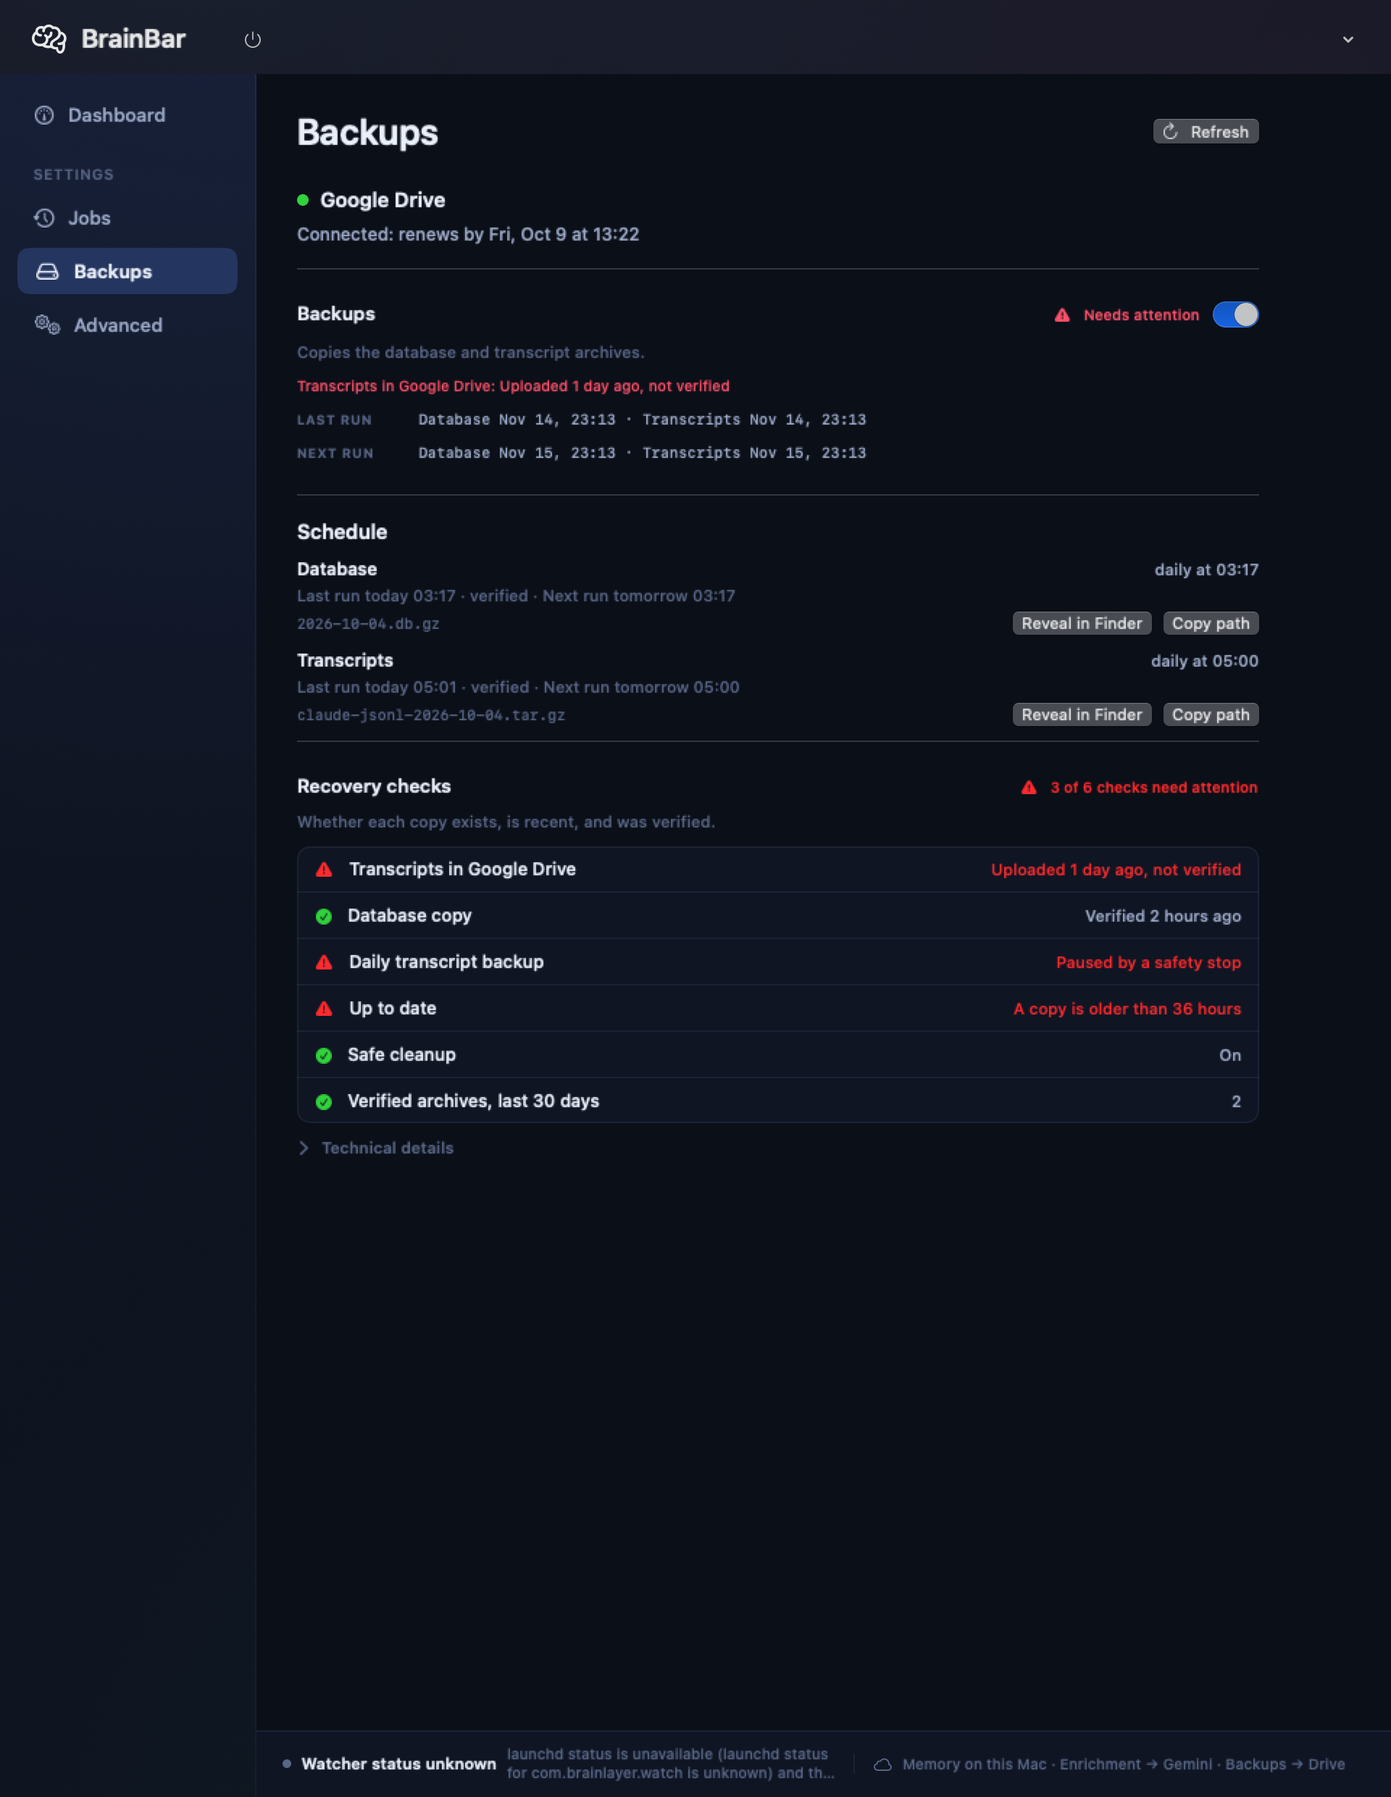
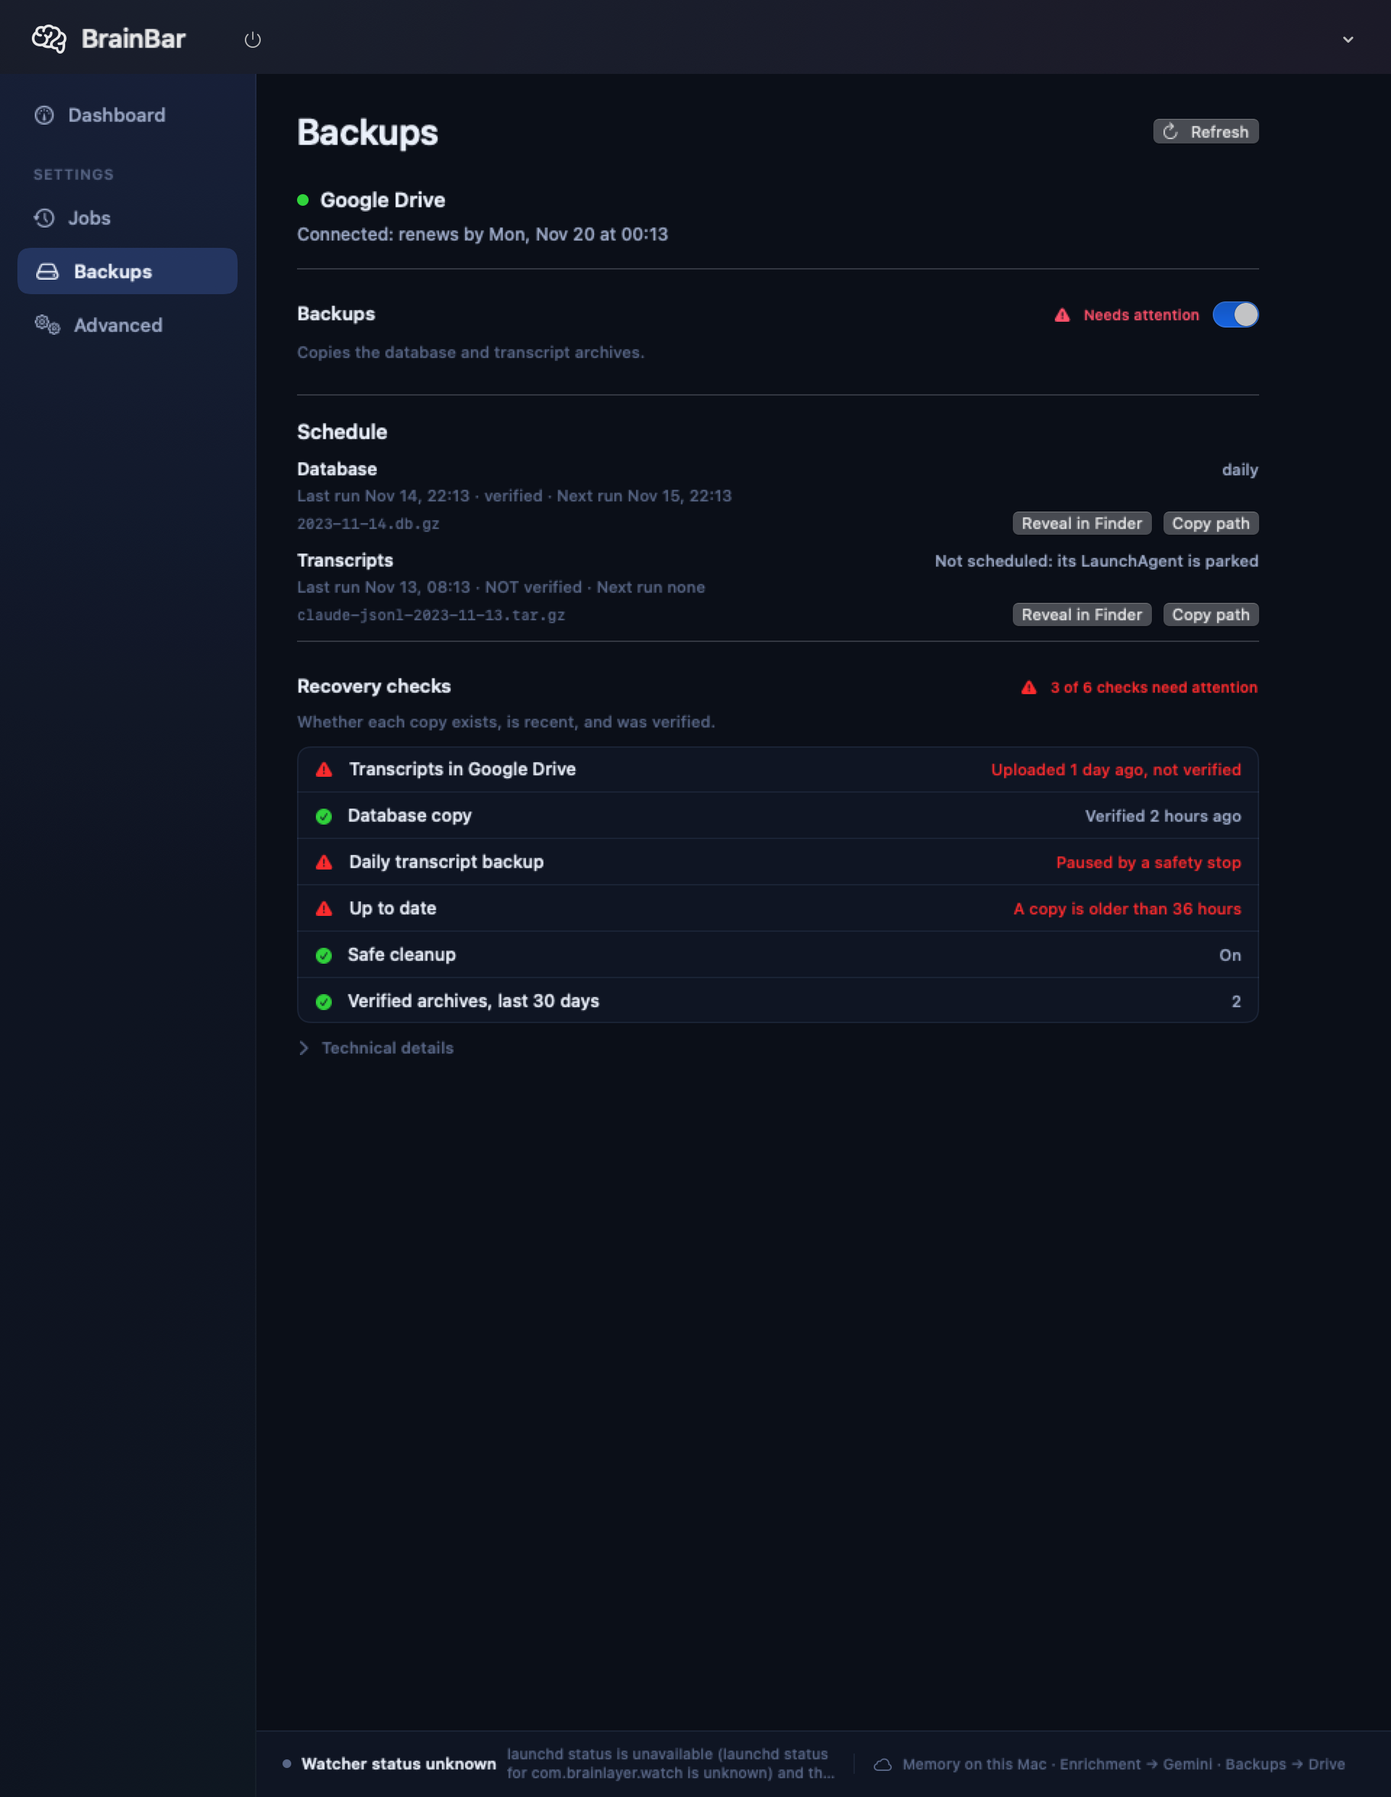
fix(brainbar): Backups shows each failure once; Schedule is the one run source (lead UX r1 on #1064)
- The Backups header keeps only its badge: a reason another card on the page
  already states (a recovery check, the Drive card, the job-alert card) is not
  repeated; one shown nowhere else still is.
- The Backups page drops the monospace LAST RUN / NEXT RUN rows; the Schedule
  section is the single source (the Jobs page keeps them).
- Render fixtures use one clock (no 2023 beside "today"); a parked job reads
  "Not scheduled".
- Harness: a Dashboard OCR label must be missing on three Vision passes before
  the render fails (review N1).

diff --git a/brain-bar/Sources/BrainBar/BrainBarRenderHarness.swift b/brain-bar/Sources/BrainBar/BrainBarRenderHarness.swift
@@ -630,14 +630,21 @@ enum BrainBarRenderHarness {
         }
         if fixedHeight != nil {
             guard emittedBitmap.pixelsWide * Int(height) == emittedBitmap.pixelsHigh * Int(breakpoint.width), let image = emittedBitmap.cgImage else { throw Failure("\(name): invalid fixed-height bitmap") }
-            let request = VNRecognizeTextRequest()
-            request.recognitionLevel = .accurate
-            try VNImageRequestHandler(cgImage: image).perform([request])
-            for label in ["Details", detailsExpanded && !collapseInPlace ? "Last seen" : "Details"] {
-                guard request.results?.contains(where: {
-                    $0.topCandidates(1).first?.string.localizedCaseInsensitiveContains(label) == true && $0.boundingBox.minY > 0.025
-                }) == true else { throw Failure("\(name): \(label) or bottom padding clipped") }
+            // Vision can miss a label on one pass and find it on the next for the same pixels
+            // (#1064 review N1), so a label must be missing on three passes before it counts.
+            let labels = ["Details", detailsExpanded && !collapseInPlace ? "Last seen" : "Details"]
+            var missing = labels
+            for _ in 0 ..< 3 where !missing.isEmpty {
+                let request = VNRecognizeTextRequest()
+                request.recognitionLevel = .accurate
+                try VNImageRequestHandler(cgImage: image).perform([request])
+                missing = missing.filter { label in
+                    request.results?.contains(where: {
+                        $0.topCandidates(1).first?.string.localizedCaseInsensitiveContains(label) == true && $0.boundingBox.minY > 0.025
+                    }) != true
+                }
             }
+            if let label = missing.first { throw Failure("\(name): \(label) or bottom padding clipped") }
         }
 
         let cardHeights = panelState.renderedSummaryTileHeights
@@ -842,7 +849,7 @@ enum BrainBarRenderHarness {
                     let page = BrainBarUnifiedWindowPreview.make(
                         collector: BrainBarDashboardFixture.makeCollector(), settingsViewModel: viewModel,
                         panelState: panelState, section: .backups,
-                        driveAuth: { $0.setForPreview(status: .init(state: .valid, reason: nil, expiresAt: Date().addingTimeInterval(5 * 86_400))) }
+                        driveAuth: { $0.setForPreview(status: .init(state: .valid, reason: nil, expiresAt: jobAt.addingTimeInterval(5 * 86_400))) }
                     )
                     try capture(page, width: breakpoint.width, height: 900, measure: { 900 },
                                 name: "maint-\(state.name)-backups-\(breakpoint.name)-\(appearance.name)",
@@ -946,17 +953,27 @@ enum BrainBarRenderHarness {
                 launchd: .init(label: "com.brainlayer.jsonl-backup", bootstrapped: false, disabledDirPresent: true)
             )
         )
-        let localCopies: [BrainBarBackupScheduleRow] = [
-            .init(title: "Database", cadence: "daily at 03:17", lastRun: "Last run today 03:17 · verified",
-                  nextRun: "Next run tomorrow 03:17",
-                  localCopy: URL(fileURLWithPath: "/Users/fixture/.local/share/brainlayer/backups/2026-10-04.db.gz")),
-            .init(title: "Transcripts", cadence: "daily at 05:00", lastRun: "Last run today 05:01 · verified",
-                  nextRun: "Next run tomorrow 05:00",
-                  localCopy: URL(fileURLWithPath: "/Users/fixture/.local/share/brainlayer/jsonl-backups/claude-jsonl-2026-10-04.tar.gz")),
-        ]
+        // Lead UX r1: every time on these renders comes from the one fixture clock (`now`), so the
+        // Schedule rows, the checks and Technical details tell the same story.
+        let show = DashboardMetricFormatter.jobDateTimeString
+        let day = { (date: Date) in date.formatted(.iso8601.year().month().day()) }
+        func schedule(upload: ObservabilityDocument.LastVerifiedUpload?, parked: Bool) -> [BrainBarBackupScheduleRow] {
+            let snapshotAt = b.dbSnapshot?.lastAt ?? now.addingTimeInterval(-7_200)
+            let uploadAt = upload?.at ?? now.addingTimeInterval(-3_600)
+            return [
+                .init(title: "Database", cadence: "daily", lastRun: "Last run \(show(snapshotAt)) · verified",
+                      nextRun: "Next run \(show(snapshotAt.addingTimeInterval(86_400)))",
+                      localCopy: URL(fileURLWithPath: "/Users/fixture/.local/share/brainlayer/backups/\(day(snapshotAt)).db.gz")),
+                .init(title: "Transcripts", cadence: parked ? "Not scheduled: its LaunchAgent is parked" : "daily",
+                      lastRun: "Last run \(show(uploadAt))\(upload?.verified == false ? " · NOT verified" : " · verified")",
+                      nextRun: parked ? "Next run none" : "Next run \(show(uploadAt.addingTimeInterval(86_400)))",
+                      localCopy: URL(fileURLWithPath: "/Users/fixture/.local/share/brainlayer/jsonl-backups/claude-jsonl-\(day(uploadAt)).tar.gz")),
+            ]
+        }
         let ok = BrainLayerLaunchdJobObservation(loadState: .loaded, runs: 3, lastExitCode: 0, lastRunAt: now.addingTimeInterval(-3_600),
                                                  nextRunAt: now.addingTimeInterval(82_800), isContinuous: false)
         func viewModel(_ result: ObservabilityReadResult, details: Bool) -> BrainBarSettingsViewModel {
+            let backups: ObservabilityDocument.Backups? = if case let .readable(document) = result { document.backups } else { nil }
             let model = BrainBarSettingsViewModel(
                 store: store,
                 launchdStatusProvider: StaticBrainLayerLaunchdStatusProvider(states: [:]),
@@ -965,13 +982,15 @@ enum BrainBarRenderHarness {
                 refreshStatusOnLoad: false,
                 now: { now },
                 initialObservabilityResult: result,
-                initialBackupSchedules: localCopies
+                initialBackupSchedules: schedule(
+                    upload: backups?.lastVerifiedUpload, parked: backups?.launchd?.bootstrapped == false
+                )
             )
             if details { model.backupDetailsExpanded = true }
             return model
         }
         let connected: (BrainBarDriveAuthModel) -> Void = { model in
-            model.setForPreview(status: .init(state: .valid, reason: nil, expiresAt: Date().addingTimeInterval(5 * 86_400)))
+            model.setForPreview(status: .init(state: .valid, reason: nil, expiresAt: now.addingTimeInterval(5 * 86_400)))
         }
         func capture(_ view: AnyView, width: CGFloat, height: CGFloat, name: String, appearance: NSAppearance.Name) throws {
             let host = NSHostingView(rootView: view)

diff --git a/brain-bar/Tests/BrainBarTests/BrainBarBackupChecksTests.swift b/brain-bar/Tests/BrainBarTests/BrainBarBackupChecksTests.swift
@@ -171,7 +171,8 @@ final class BrainBarSettingsPlainPathsTests: XCTestCase {
     }
 
     private func makeViewModel(
-        observability: ObservabilityReadResult, workspace: Recorder = Recorder()
+        observability: ObservabilityReadResult, workspace: Recorder = Recorder(),
+        jsonl: BrainLayerLaunchdJobObservation? = nil
     ) throws -> (BrainBarSettingsViewModel, URL) {
         let root = URL(fileURLWithPath: NSTemporaryDirectory(), isDirectory: true)
             .appendingPathComponent("brainbar-plain-paths-\(UUID().uuidString)", isDirectory: true)
@@ -184,7 +185,7 @@ final class BrainBarSettingsPlainPathsTests: XCTestCase {
             launchdStatusProvider: StaticBrainLayerLaunchdStatusProvider(states: [:]),
             initialLaunchdObservations: [
                 .backupDaily: .init(loadState: .loaded, runs: 1, lastExitCode: 0, lastRunAt: Date(), nextRunAt: Date(), isContinuous: false),
-                .jsonlBackup: .init(loadState: .loaded, runs: 1, lastExitCode: 0, lastRunAt: Date(), nextRunAt: Date(), isContinuous: false),
+                .jsonlBackup: jsonl ?? .init(loadState: .loaded, runs: 1, lastExitCode: 0, lastRunAt: Date(), nextRunAt: Date(), isContinuous: false),
             ],
             refreshStatusOnLoad: false,
             initialObservabilityResult: observability,
@@ -216,6 +217,34 @@ final class BrainBarSettingsPlainPathsTests: XCTestCase {
         XCTAssertEqual(viewModel.backupChecks?.attentionSentence, health.reason)
     }
 
+    /// Lead UX r1 on #1064: each failure is shown once. The Backups header keeps its badge but drops
+    /// any reason the page already shows (a recovery check, the Drive card, the job-alert card); a
+    /// reason shown nowhere else (the launchd job's exit) still appears under the badge.
+    func test_the_backups_header_never_repeats_a_reason_the_page_already_shows() throws {
+        guard case let .readable(healthy) = BrainBarDashboardFixture.healthyObservabilityResult else {
+            XCTFail("fixture must be readable")
+            return
+        }
+        let unverified = healthy.replacingBackupsLastVerifiedUpload(verified: false)
+        let (model, _) = try makeViewModel(observability: .readable(unverified))
+        XCTAssertEqual(model.backupsHealth(drive: nil).badge, .attention)
+        XCTAssertNil(model.backupsBadgeReason(drive: nil), "the Recovery checks card already says it")
+
+        let drive = DriveAuthPresentation.derive(
+            status: .init(state: .missing, reason: nil, expiresAt: nil),
+            isReconnecting: false, lastOutcome: nil, now: Date(), formatDate: { _ in "" }
+        )
+        let (healthyModel, _) = try makeViewModel(observability: .readable(healthy))
+        XCTAssertEqual(healthyModel.backupsHealth(drive: drive).reason, drive.line)
+        XCTAssertNil(healthyModel.backupsBadgeReason(drive: drive), "the Google Drive card already says it")
+
+        let failedJob = BrainLayerLaunchdJobObservation(loadState: .loaded, runs: 2, lastExitCode: 1, lastRunAt: Date(),
+                                                        nextRunAt: Date(), isContinuous: false)
+        let (jobModel, _) = try makeViewModel(observability: .readable(healthy), jsonl: failedJob)
+        let reason = try XCTUnwrap(jobModel.backupsHealth(drive: nil).reason)
+        XCTAssertEqual(jobModel.backupsBadgeReason(drive: nil), reason, "shown nowhere else, so it stays")
+    }
+
     func test_the_config_file_row_copies_and_reveals_the_file_the_model_reads() throws {
         let workspace = Recorder()
         let (viewModel, configURL) = try makeViewModel(observability: .unreadable("x"), workspace: workspace)
@@ -226,5 +255,22 @@ final class BrainBarSettingsPlainPathsTests: XCTestCase {
         XCTAssertEqual(workspace.revealed, [configURL])
         viewModel.copyText("1-QM42")
         XCTAssertEqual(workspace.copied.last, "1-QM42")
+    }
+}
+
+private extension ObservabilityDocument {
+    func replacingBackupsLastVerifiedUpload(verified: Bool) -> Self {
+        let b = backups
+        return Self(
+            schemaVersion: schemaVersion, generatedAt: generatedAt, dbPath: dbPath, windowHours: windowHours,
+            stores: stores, emitters: emitters, authorUnknown: authorUnknown,
+            backups: .init(
+                state: b.state, reason: b.reason, inputs: b.inputs, freshness: b.freshness,
+                thresholdHours: b.thresholdHours, retentionInvariant: b.retentionInvariant,
+                survivingArchives30D: b.survivingArchives30D, errorType: b.errorType,
+                lastVerifiedUpload: b.lastVerifiedUpload.map { .init(at: $0.at, ageHours: $0.ageHours, archiveId: $0.archiveId, verified: verified) },
+                dbSnapshot: b.dbSnapshot, launchd: b.launchd
+            )
+        )
     }
 }

diff --git a/brain-bar/Sources/BrainBar/BrainBarSettingsView.swift b/brain-bar/Sources/BrainBar/BrainBarSettingsView.swift
@@ -340,8 +340,11 @@ final class BrainBarSettingsViewModel: ObservableObject {
     /// The line under the Backups badge: the verdict's reason, unless it is the job alert the
     /// alert card above it already shows.
     func backupsBadgeReason(drive: DriveAuthPresentation?) -> String? {
+        // Each failure once per screen (lead UX r1 on #1064): the job-alert card, the Google Drive
+        // card and the Recovery checks card each say their own; the header keeps only the badge.
         let reason = backupsHealth(drive: drive).reason
-        return reason == jobAlert ? nil : reason
+        let shownElsewhere = [jobAlert, drive?.line, backupChecks?.attentionSentence].compactMap { $0 }
+        return reason.flatMap { shownElsewhere.contains($0) ? nil : $0 }
     }
 
     /// Show log for the job alert: the failing job's log, named by the live job-alert state.
@@ -962,7 +965,10 @@ struct BrainBarSettingsView: View {
                 if let driveAuth {
                     BrainBarDriveAwareBackupsGroup(viewModel: viewModel, driveAuth: driveAuth)
                 } else {
-                    BrainBarJobGroupCard(group: .backups, viewModel: viewModel, backupsHealth: viewModel.backupsHealth(drive: nil))
+                    BrainBarJobGroupCard(
+                        group: .backups, viewModel: viewModel,
+                        backupsHealth: viewModel.backupsHealth(drive: nil), backupsReason: viewModel.backupsBadgeReason(drive: nil)
+                    )
                 }
                 Divider()
                 backupSchedule
@@ -1174,10 +1180,12 @@ private struct BrainBarDriveAwareBackupsGroup: View {
         VStack(alignment: .leading, spacing: 16) {
             BrainBarDriveAuthCard(model: driveAuth)
             Divider()
+            let drive = driveAuth.presentation(formatDate: BrainBarDriveAuthFormat.date)
             BrainBarJobGroupCard(
                 group: .backups,
                 viewModel: viewModel,
-                backupsHealth: viewModel.backupsHealth(drive: driveAuth.presentation(formatDate: BrainBarDriveAuthFormat.date))
+                backupsHealth: viewModel.backupsHealth(drive: drive),
+                backupsReason: viewModel.backupsBadgeReason(drive: drive)
             )
         }
     }
@@ -1188,6 +1196,8 @@ private struct BrainBarJobGroupCard: View {
     @ObservedObject var viewModel: BrainBarSettingsViewModel
     /// The Backups page passes its combined verdict; other groups show launchd health alone.
     var backupsHealth: BrainBarBackupsHealth?
+    /// The Backups verdict's reason, minus anything another card on the page already shows.
+    var backupsReason: String?
 
     static func symbol(_ health: BrainLayerLaunchdGroupHealth) -> String {
         switch health {
@@ -1231,8 +1241,7 @@ private struct BrainBarJobGroupCard: View {
         }
         return Badge(
             title: backupsHealth.badge.title, symbol: symbol, color: color,
-            // The job alert has its own card on this page; say it once (lead ruling 2026-10-04).
-            reason: backupsHealth.reason == viewModel.jobAlert ? nil : backupsHealth.reason,
+            reason: backupsReason,
             reasonColor: backupsHealth.badge == .unknown ? Color.brainBarTextMuted : color
         )
     }
@@ -1267,8 +1276,11 @@ private struct BrainBarJobGroupCard: View {
                     .foregroundStyle(Color(nsColor: BrainBarDesignTokens.Colors.statusAttention))
                     .accessibilityIdentifier("brainbar.jobs.\(group.rawValue).note")
             }
-            groupTiming(label: "LAST RUN", value: status.lastRunText)
-            groupTiming(label: "NEXT RUN", value: status.nextRunText)
+            // The Backups page's Schedule section is its one source of last/next runs (lead UX r1).
+            if backupsHealth == nil {
+                groupTiming(label: "LAST RUN", value: status.lastRunText)
+                groupTiming(label: "NEXT RUN", value: status.nextRunText)
+            }
         }
         .padding(.vertical, 6)
     }

diff --git a/brain-bar/Tests/BrainBarTests/BrainBarJobAlertTests.swift b/brain-bar/Tests/BrainBarTests/BrainBarJobAlertTests.swift
@@ -296,8 +296,9 @@ final class BrainBarBackupsJobAlertPageTests: XCTestCase {
         )
         let model = try viewModel(.readable(stale))
         XCTAssertNil(model.jobAlert)
-        // E1: the badge speaks the recovery checks' plain words.
-        XCTAssertEqual(model.backupsBadgeReason(drive: nil), "Up to date: A copy is older than 36 hours")
+        // Lead UX r1 on #1064: the Recovery checks card already says it; the header shows it once.
+        XCTAssertEqual(model.backupsHealth(drive: nil).reason, "Up to date: A copy is older than 36 hours")
+        XCTAssertNil(model.backupsBadgeReason(drive: nil))
     }
 }
 

diff --git a/brain-bar/docs/ui-renders/2026-10-04-etan-e1-e4-e5/README.md b/brain-bar/docs/ui-renders/2026-10-04-etan-e1-e4-e5/README.md
@@ -54,3 +54,21 @@ Every capture was rendered under the `darkAqua` and `aqua` system appearances
 ([light example](after-backups-attention-default-light.png)). They match pixel for pixel except
 the few digits of the Drive card's "renews by …" time, which comes from the wall clock at render
 time. BrainBar pins its own dark scheme.
+
+## Round 1 (lead UX)
+- **Each failure shows once.** The Backups header keeps only its badge. Any reason that another card
+  already states (a recovery check, the Google Drive card or the job-alert card) is not repeated
+  under it. A reason that appears nowhere else, such as the launchd job's exit, still shows.
+  Test: `test_the_backups_header_never_repeats_a_reason_the_page_already_shows`.
+- **No monospace `LAST RUN` / `NEXT RUN` rows** on the Backups page: the Schedule section is the one
+  source of last/next runs. The Jobs page keeps them.
+- **Coherent fixture times:** every time in these renders comes from the fixture's single clock (the
+  Schedule rows, the checks, Technical details, the local-copy names and the Drive renewal).
+  A parked job reads "Not scheduled" with no next run. Light and dark Backups captures are now
+  byte-identical (the wall-clock minute is gone).
+- **Harness OCR (review N1):** the fixed-height Dashboard check now requires a label to be missing
+  on three Vision passes before it fails. The full harness exits 0 on two consecutive runs.
+
+The `after-*` images above are the round-1 renders. Healthy is shown at
+[760](after-backups-healthy-compact-light.png) · [960](after-backups-healthy-default-light.png) ·
+[1280](after-backups-healthy-wide-light.png) under the light appearance too.
